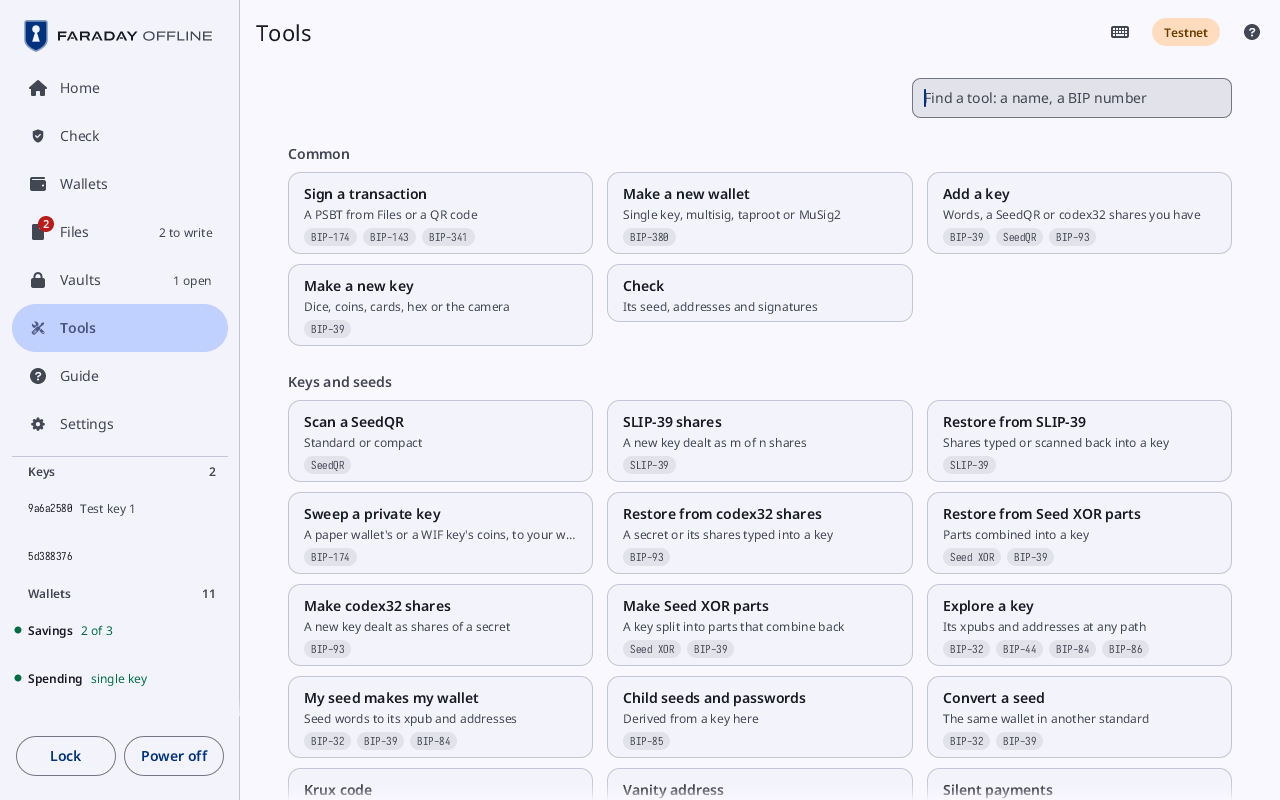
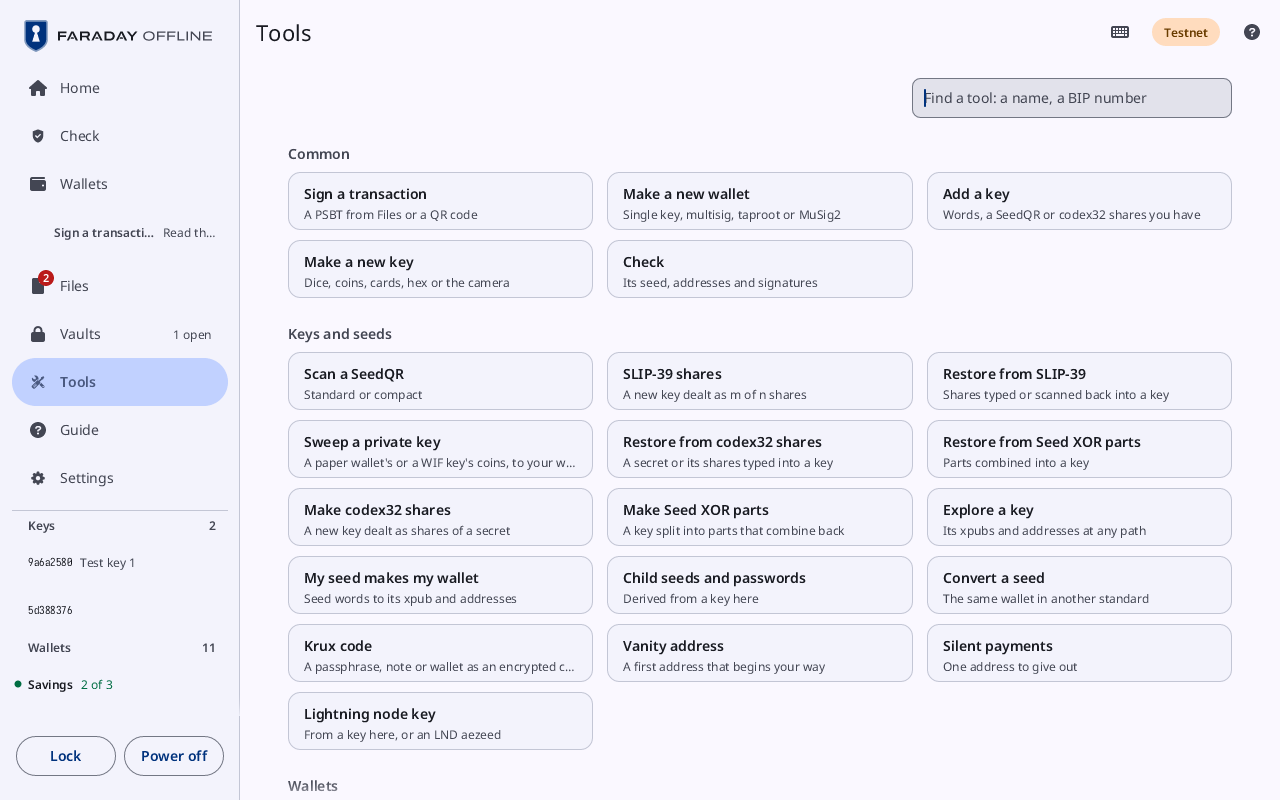
Tools shows each tile as its name and line, with its standards left to Find, and its page grows no wider than Transfer's two columns on a large window
The standards chips come off the tiles; Find a tool still finds a tool by a BIP number or a standard's name. The README's Tools picture is rendered again.

diff --git a/faraday/faraday-core/src/screens/catalog.rs b/faraday/faraday-core/src/screens/catalog.rs
@@ -1,4 +1,4 @@
-//! `Screen::Catalog`: Tools, every flow on one page, with its standards.
+//! `Screen::Catalog`: Tools, every flow on one page; Find also reaches a tool by its standards.
 
 use crate::Action;
 use crate::drawing::View;
@@ -17,7 +17,7 @@ use faraday_ui::parts::section_label;
 pub(crate) use super::settings::rows::{ROWS, Row};
 
 /// Tools: every flow by group, as many tiles to a row as fit and at
-/// least three, each with its standards; Find a tool narrows them as it is typed.
+/// least three, in a page at most `TRANSFER_W` wide; Find a tool narrows them as it is typed.
 pub(super) fn draw(app: &View, ui: &mut Ui, x0: f32, cw: f32, h: f32) {
     use crate::catalog::{GROUPS, TILES, matches};
     // A small panel has the name in its bar, Find across the panel, and a
@@ -26,7 +26,10 @@ pub(super) fn draw(app: &View, ui: &mut Ui, x0: f32, cw: f32, h: f32) {
     let (x, width) = if compact {
         (x0 + crate::compact::M, cw - 2.0 * crate::compact::M)
     } else {
-        (x0 + PAGE_INSET, cw - 2.0 * PAGE_INSET)
+        (
+            x0 + PAGE_INSET,
+            (cw - 2.0 * PAGE_INSET).min(faraday_draw::tokens::TRANSFER_W),
+        )
     };
     let clip = ui.rect(x0, 0.0, cw, h);
     let open = ui.region_open(Region::page(clip).from_zero(app.list_offset));
@@ -72,7 +75,7 @@ pub(super) fn draw(app: &View, ui: &mut Ui, x0: f32, cw: f32, h: f32) {
                     name: tile.name,
                     line: need.unwrap_or(tile.line),
                     warn: need.is_some(),
-                    tags: tile.tags,
+                    tags: &[],
                     opens: app.tile_opens(tile.go),
                     action: Action::Catalog(*i as u8),
                 }

diff --git a/core/faraday-draw/src/tokens.rs b/core/faraday-draw/src/tokens.rs
@@ -1071,8 +1071,7 @@ pub const VISIT_ROW_BUTTON_H: f32 = 32.0;
 /// A stick visit's reading area: its two lists, each at most
 /// `COLUMN_MAX`, the gap between them, between two `PAGE_INSET`s.
 pub const READING_VISIT_W: f32 = 2.0 * COLUMN_MAX + VISIT_GAP + 2.0 * PAGE_INSET;
-/// The narrowest a tile of the tools' catalogue is: its name, its line
-/// and its standards' tags; the catalogue takes as many columns as fit,
+/// The narrowest a tile of the tools' catalogue is: its name, its line; the catalogue takes as many columns as fit,
 /// never fewer than three beside the navigation (`docs/LAYOUT.md` §17).
 pub const CATALOG_TILE_MIN: f32 = 360.0;
 /// The height of a tile of the catalogue with its standards' tags.

diff --git a/faraday/faraday-core/src/catalog.rs b/faraday/faraday-core/src/catalog.rs
@@ -1,5 +1,4 @@
-//! Tools: every flow Faraday has, on one page, by what it works on, each
-//! with the standards it follows. A tile opens its flow, or says what it
+//! Tools: every flow Faraday has, on one page, by what it works on. A tile opens its flow, or says what it
 //! needs first. "Find a tool" narrows the page to the tiles whose name,
 //! line, group, standards or everyday words (send, receive, recover,
 //! verify, 2FA) hold what is typed.

diff --git a/docs/DESIGN.md b/docs/DESIGN.md
@@ -762,7 +762,7 @@ is `docs/WALLETS.md` and the Spend tab `docs/SPEND-FROM-BACKUP.md`.
 | `Silent` | Silent payments: a loaded key's address, its labels and the payments checked. The Address card ends with a **DNS record** heading and two outlined text fields (Material 3 Text fields), **Name** and **Domain**, as Explore's fields are drawn; while either is empty nothing more shows. With both filled and valid (ASCII letters, digits and hyphens in labels of 1 to 63, dots between the domain's labels, the whole owner name within 253 characters) the card shows `₿name@domain` and the BIP-353 TXT record line in the address's monospace style, and one action, **DNS record as QR**, shown in the address's QR view as `silent-<fp>-dns`. A name or domain that is not valid shows a plain line under its field and no record. Nothing is resolved. | Step flow |
 | `Vanity` | A vanity address for a loaded key: the kind (a script type or a silent payment code), the prefix, the dial, the grind and its find. | Step flow |
 | `Lightning` | A Lightning node's key, from a loaded key (ldk-node's and Core Lightning's, one button each), an LND aezeed, Core Lightning's hsm_secret picked in Files (plain, encrypted or in its words form; a passphrase field only when the file asks, and empty is accepted) or English words typed; its node id with **Show as QR** and **PNG** on a row of their own (`docs/QR.md` §7). | Page |
-| `Catalog` | Tools: every flow on one page, by group, each with its line and the standard it follows; the sidebar's Tools. Find a tool also finds the rows of Settings by their label and everyday words (Material 3's Lists): under a Settings heading each is an item with its section's name, and a press opens Settings at it, on a compact window the row's section as its own page, from medium up the page scrolled to its card; one search serves Tools and Home (`faraday/faraday-core/src/tools/search.rs`). Every flow a person starts a task from has a tile here, the Check place's rows included (`tools/lint-check-tiles.py`). | Page |
+| `Catalog` | Tools: every flow on one page, by group, each a name and one line (its standards are not shown, Find still finds a tool by them); the sidebar's Tools. Find a tool also finds the rows of Settings by their label and everyday words (Material 3's Lists): under a Settings heading each is an item with its section's name, and a press opens Settings at it, on a compact window the row's section as its own page, from medium up the page scrolled to its card; one search serves Tools and Home (`faraday/faraday-core/src/tools/search.rs`). Every flow a person starts a task from has a tile here, the Check place's rows included (`tools/lint-check-tiles.py`). | Page |
 | `Tools` | The calculators: hashes, encodings, a descriptor's checksum, an xpub's spellings, units, the Miniscript compiler. | Page |
 | `Vaults` | The vaults in Files and those open. | Page |
 | `Unlock` | Unlocking one slot of a vault with its passphrase. | Page |

diff --git a/docs/LAYOUT.md b/docs/LAYOUT.md
@@ -742,7 +742,7 @@ Moved out with the step-through (F260): nothing of it is left to place.
 | The structure chart (a wallet's detail, the chart sheet) | wide content in the detail's width; its nodes keep their size (§8); the wallet's buttons under the chart, not at the card's foot. A node's sheet is Material's standard side sheet at the window's right edge, `SIDE_SHEET_W` wide, the page's room narrowed by it so the chart and its highlighted lines stand beside it (DESIGN §4.16), and where the room left cannot hold the list pane and a card at least as wide beside it (`panes::screen::fits`), the wallet's card stands alone in it, as on a medium window, until the sheet closes; on the rail's and the bar's windows the centred sheet or the panel's page, as before |
 | Back on a compact window | closes what is open on the page before it leaves it: the search view of a vault's items or of the codes (the bar's back arrow, naming the list, and the system Back close it as Done and Escape do, the query kept and the list filtered), then a Settings section to the list |
 | Tools | reading content in its own area (`READING_TOOLS_W`), centred: its `TOOLS_COLUMN_W` column after its inset |
-| The tools' catalogue | a grid of tiles, wide content: as many columns as `CATALOG_TILE_MIN` leaves room for in the work width, never fewer than `CATALOG_COLUMNS_MIN`, each at the row's share |
+| The tools' catalogue | a grid of tiles, wide content: as many columns as `CATALOG_TILE_MIN` leaves room for, never fewer than `CATALOG_COLUMNS_MIN`, each at the row's share, in a page at most `TRANSFER_W` wide from the work width's start (F114); a tile shows its name and line, its standards only as what Find searches |
 | Transfer, Files with a stick open | reading content, each in its own area centred in the room: Transfer's Send and Receive side by side, `TRANSFER_W` at most (`READING_TRANSFER_W`); Files with a stick open, its lists and the stick pane, each at most `COLUMN_MAX`, `VISIT_GAP` apart (`READING_VISIT_W`); each between two `PAGE_INSET`s |
 | The backup board | wide content: the places laid out in as many columns as the work width holds at the board's place width, so three places stand side by side at 2560 and two at 1920; the board's lists (seeds, vaults, watch-only software) a supporting pane at the right edge (§15); the page it is on (Back up, a wallet's backup flow) starts at the navigation on every card, so its cards stand still when the board's card opens, and the open card's rules run the work width (§14) |
 | Explore | reading content: the path field as wide as a path (§8), the values in mono in the column, wrapping in groups; the addresses table as wide as its columns, at the start |

diff --git a/docs/FLOWS.md b/docs/FLOWS.md
@@ -1957,7 +1957,7 @@ is `docs/DESIGN.md` §5, My seed makes my wallet.
 | From | What opens it |
 |---|---|
 | Check | its first row, **My seed makes my wallet**: the Seed card open |
-| Tools | the tile **My seed makes my wallet** in Keys and seeds, after **Explore a key**, its line "Seed words to its xpub and addresses", tags BIP-32, BIP-39, BIP-84: the same. Tools stays the list of every flow; Check is a second way in |
+| Tools | the tile **My seed makes my wallet** in Keys and seeds, after **Explore a key**, its line "Seed words to its xpub and addresses", found by BIP-32, BIP-39, BIP-84 in Find: the same. Tools stays the list of every flow; Check is a second way in |
 
 It opens with nothing needed first, no key and no wallet. The screen is a
 step flow (`Screen::SeedCheck`) of four cards: **Seed**, **Passphrase**,
@@ -2209,7 +2209,7 @@ one sheet each, "{i} of {n}", and Cancel drops only the wallet shown. Built. Its
 | From | What opens it |
 |---|---|
 | Check | its row 7, **Check a multisig setup**: the Setup card open |
-| Tools | the tile **Check a multisig setup** in Wallets, after **Restore an existing wallet**, its line "Its quorum, checksum and cosigners", tags BIP-380, BIP-388, BIP-129: the same. Tools stays the list of every flow; Check is a second way in |
+| Tools | the tile **Check a multisig setup** in Wallets, after **Restore an existing wallet**, its line "Its quorum, checksum and cosigners", found by BIP-380, BIP-388, BIP-129 in Find: the same. Tools stays the list of every flow; Check is a second way in |
 | Files | a wallet file's row's ⋮, **Check this setup**, From the stick and For the stick alike, on a file Files reads as a wallet of more than one key; not offered on a file of one key or one that does not read as a wallet. That file is the setup, the Setup card closed on its name and shape with **Change**, and the Result (or the refusal line, where the file is refused) shown at once. Back from it lands on Files as it was left |
 
 It opens with nothing needed first, no key and no wallet. The screen is

diff --git a/docs/guide/catalog.md b/docs/guide/catalog.md
@@ -5,7 +5,7 @@
 **Screen:** `Catalog`
 **Key:** catalog
 
-Every flow of the app on one page, in groups of tiles, **Common** first (**Sign a transaction**, **Make a new wallet**, **Add a key**, **Make a new key** and **Check**), each with the standards it follows. **Find a tool: a name, a BIP number** narrows the tiles to those whose name, line, group, standards or everyday words hold every word typed ("send", "receive", "recover", "verify", "2FA" and "seed phrase" find the tools a newcomer means by them), and lists under **Settings** the settings the words find, a press of one opening Settings at it; **No tool matches** shows when neither a tool nor a setting does.
+Every flow of the app on one page, in groups of tiles, **Common** first (**Sign a transaction**, **Make a new wallet**, **Add a key**, **Make a new key** and **Check**). **Find a tool: a name, a BIP number** narrows the tiles to those whose name, line, group, standards or everyday words hold every word typed ("send", "receive", "recover", "verify", "2FA" and "seed phrase" find the tools a newcomer means by them), and lists under **Settings** the settings the words find, a press of one opening Settings at it; **No tool matches** shows when neither a tool nor a setting does.
 
 ## Keys and seeds: making and restoring
 

diff --git a/README.md b/README.md
@@ -66,11 +66,11 @@ The stick image on a PC, at 1280×800.
 <table>
 <tr>
 <td width="50%"><img src="docs/screenshots/pc-home.png" alt="Home: Make a new wallet, Restore an existing wallet, Spend from a backup" width="100%"></td>
-<td width="50%"><img src="docs/screenshots/pc-tools.png" alt="Tools: the tool cards under Common and Keys and seeds, with the search box" width="100%"></td>
+<td width="50%"><img src="docs/screenshots/pc-tools.png" alt="Tools: the tool tiles under Common and Keys and seeds, with the search box" width="100%"></td>
 </tr>
 <tr>
 <td>Home</td>
-<td>Tools: every flow, with its standards</td>
+<td>Tools: every flow, by group</td>
 </tr>
 <tr>
 <td width="50%"><img src="docs/screenshots/pc-new-key-dice.png" alt="Make a new key, Rolls step: 99 of 99 rolls typed and the randomness check" width="100%"></td>
